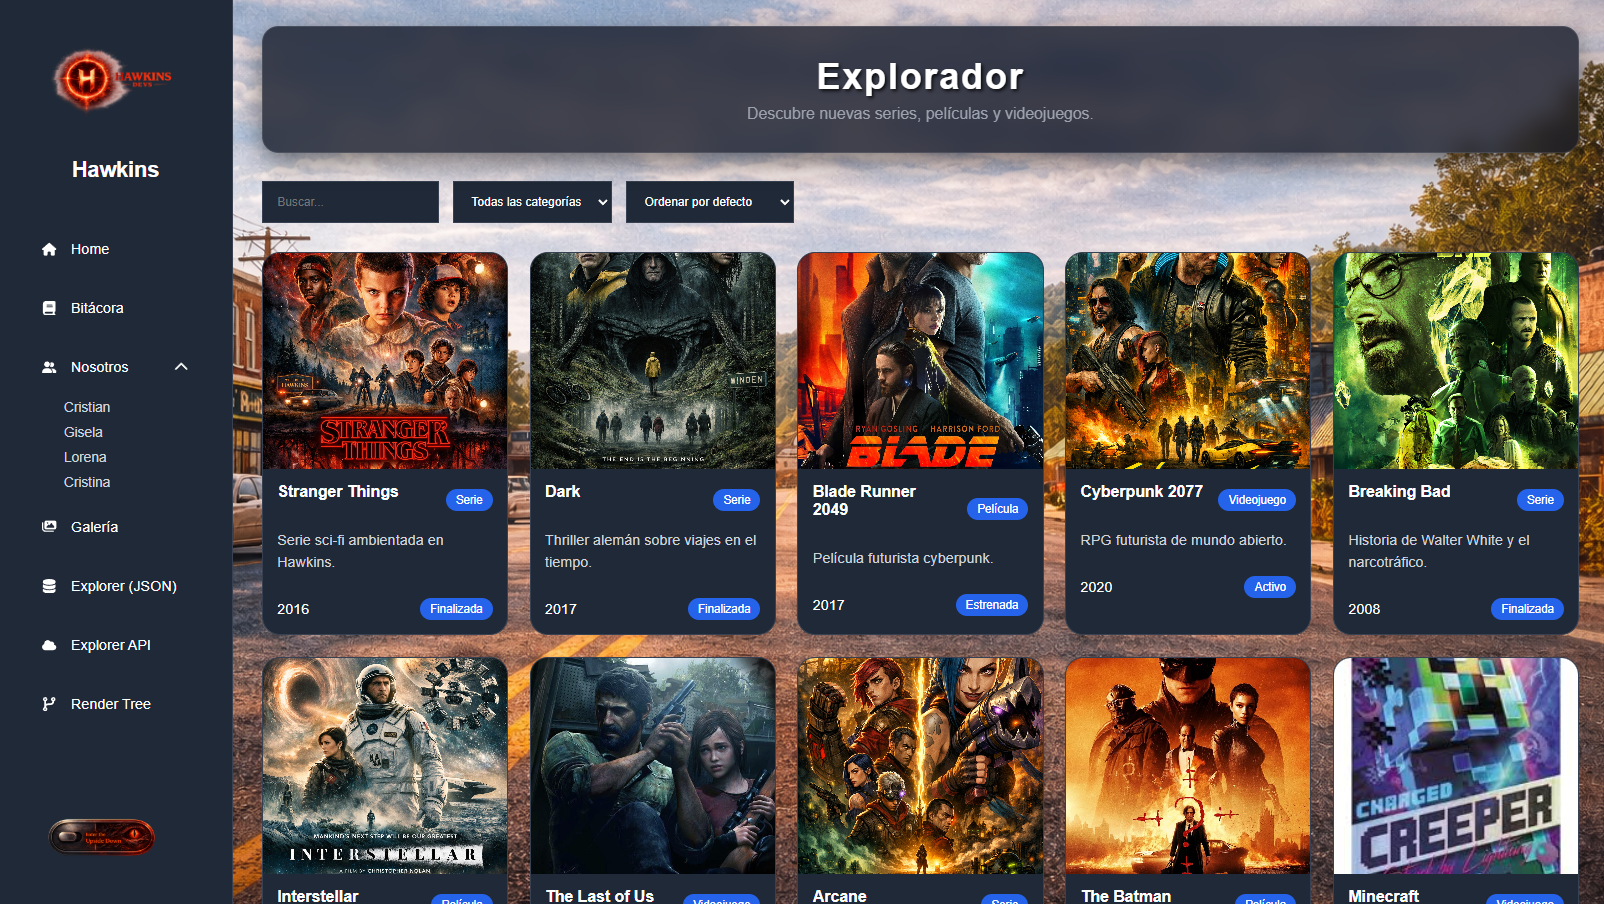
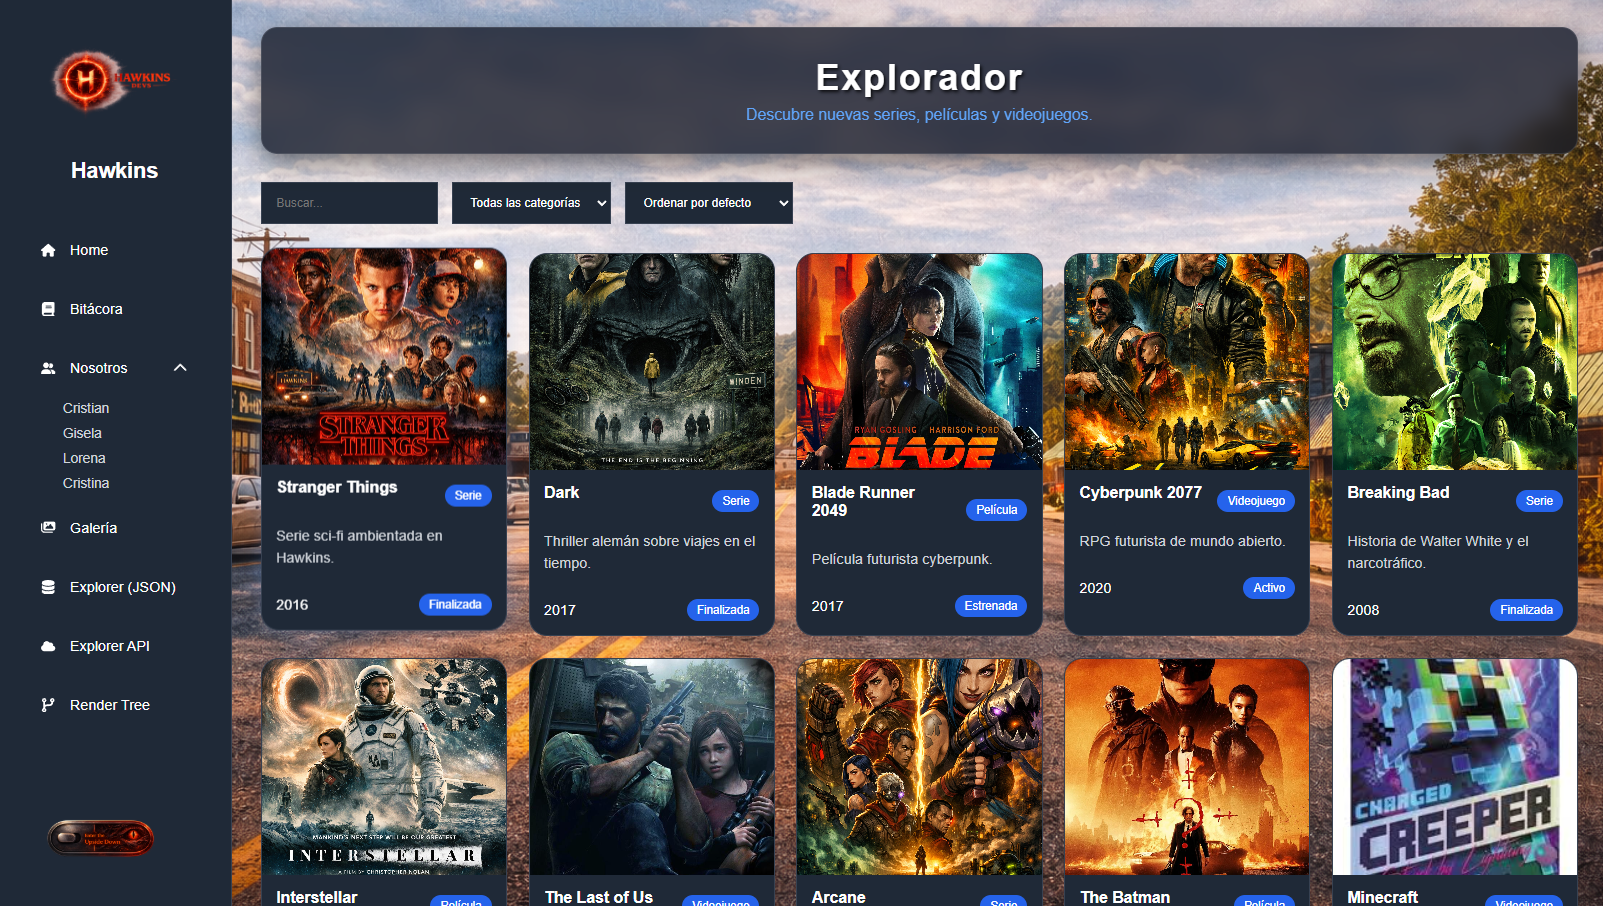
FIX: estilos de subtítulo y cambios en screenshots

diff --git a/src/styles/globals.css b/src/styles/globals.css
@@ -209,8 +209,9 @@ li {
 .tree-header p,
 .api-header p,
 .explorer-header p,
-.gallery-header p {
-  color: #e5e7eb;
+.gallery-header p,
+.bitacora-hero p {
+  color: var(--color-accent);
   font-size: 1.1rem;
 }
 
@@ -253,8 +254,7 @@ li {
 }
 
 .bitacora-hero p {
-  color: rgba(255, 255, 255, .75);
-  font-size: 1.05rem;
+  /* color heredado de la regla global (var(--color-accent)) */
 }
 
 .bitacora-section {
@@ -796,7 +796,7 @@ li {
 }
 
 .explorer-header p {
-  color: var(--color-text-secondary);
+  /* color heredado globalmente */
 }
 
 .explorer-controls {
@@ -945,7 +945,7 @@ li {
 }
 
 .api-header p {
-  color: var(--color-text-secondary);
+  /* color heredado globalmente */
 }
 
 .api-grid {
@@ -1050,7 +1050,7 @@ li {
 }
 
 .tree-header p {
-  color: var(--color-text-secondary);
+  /* color heredado globalmente */
 }
 
 .tree-container {
